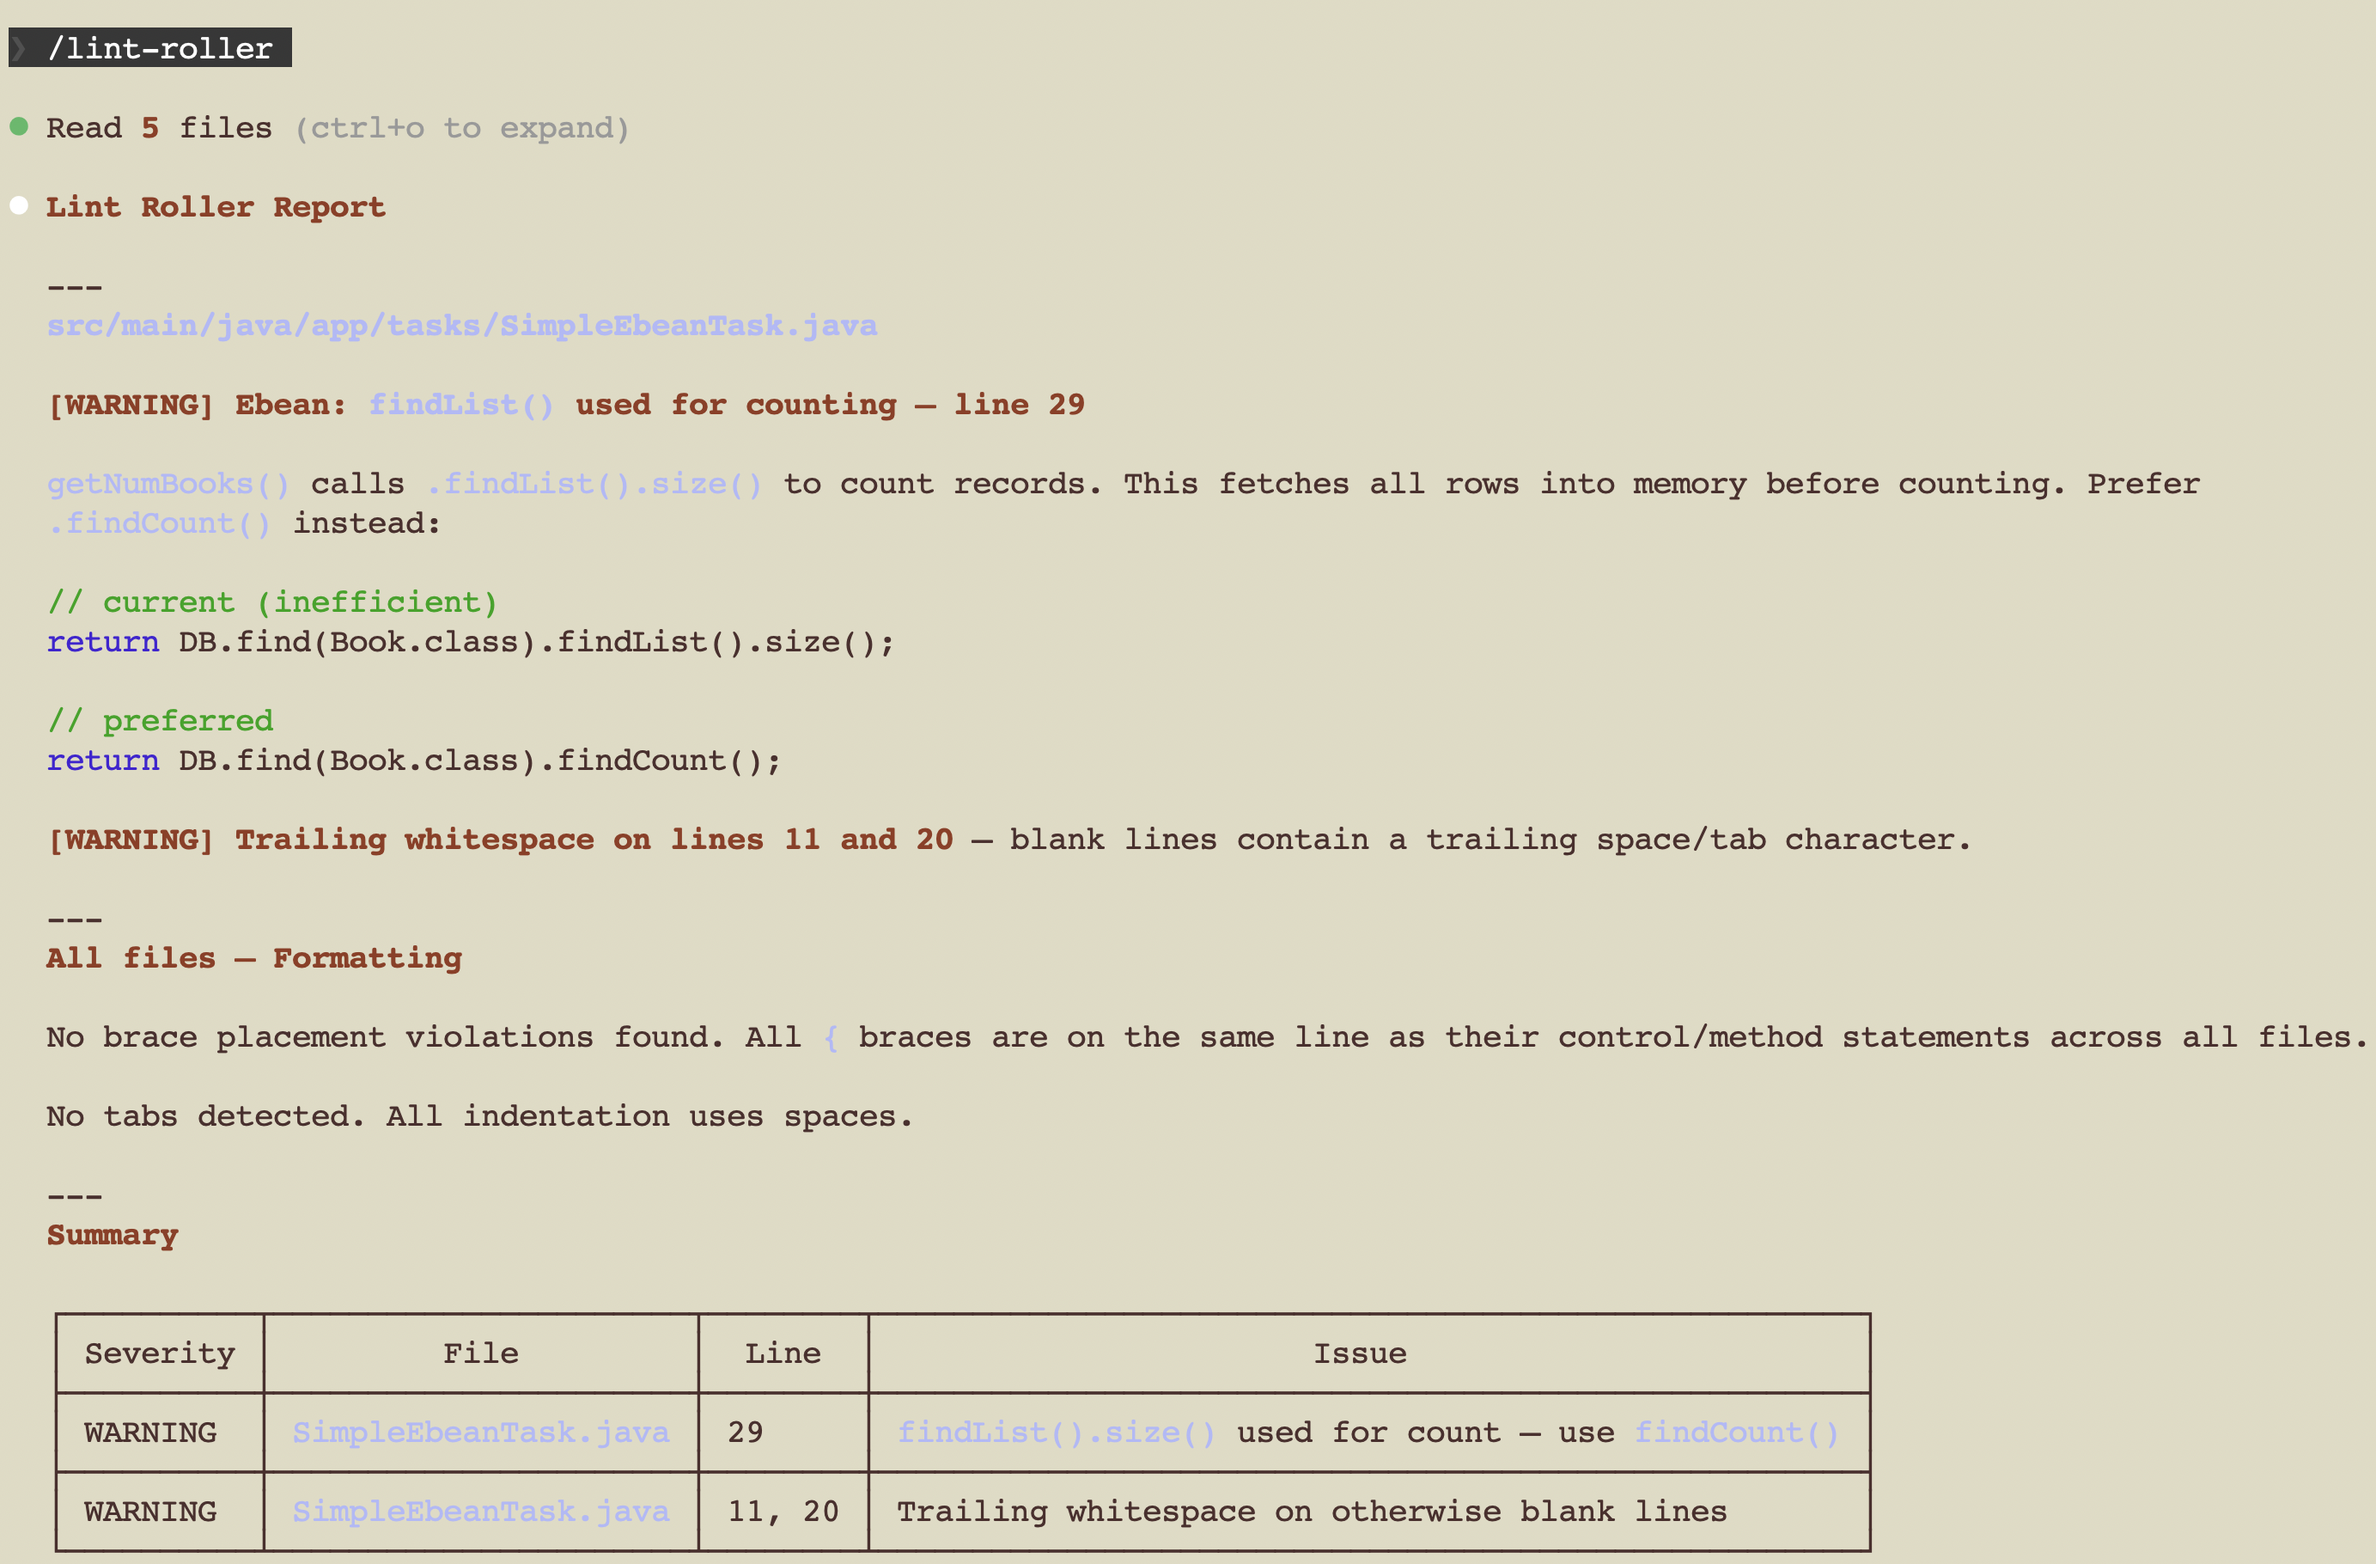
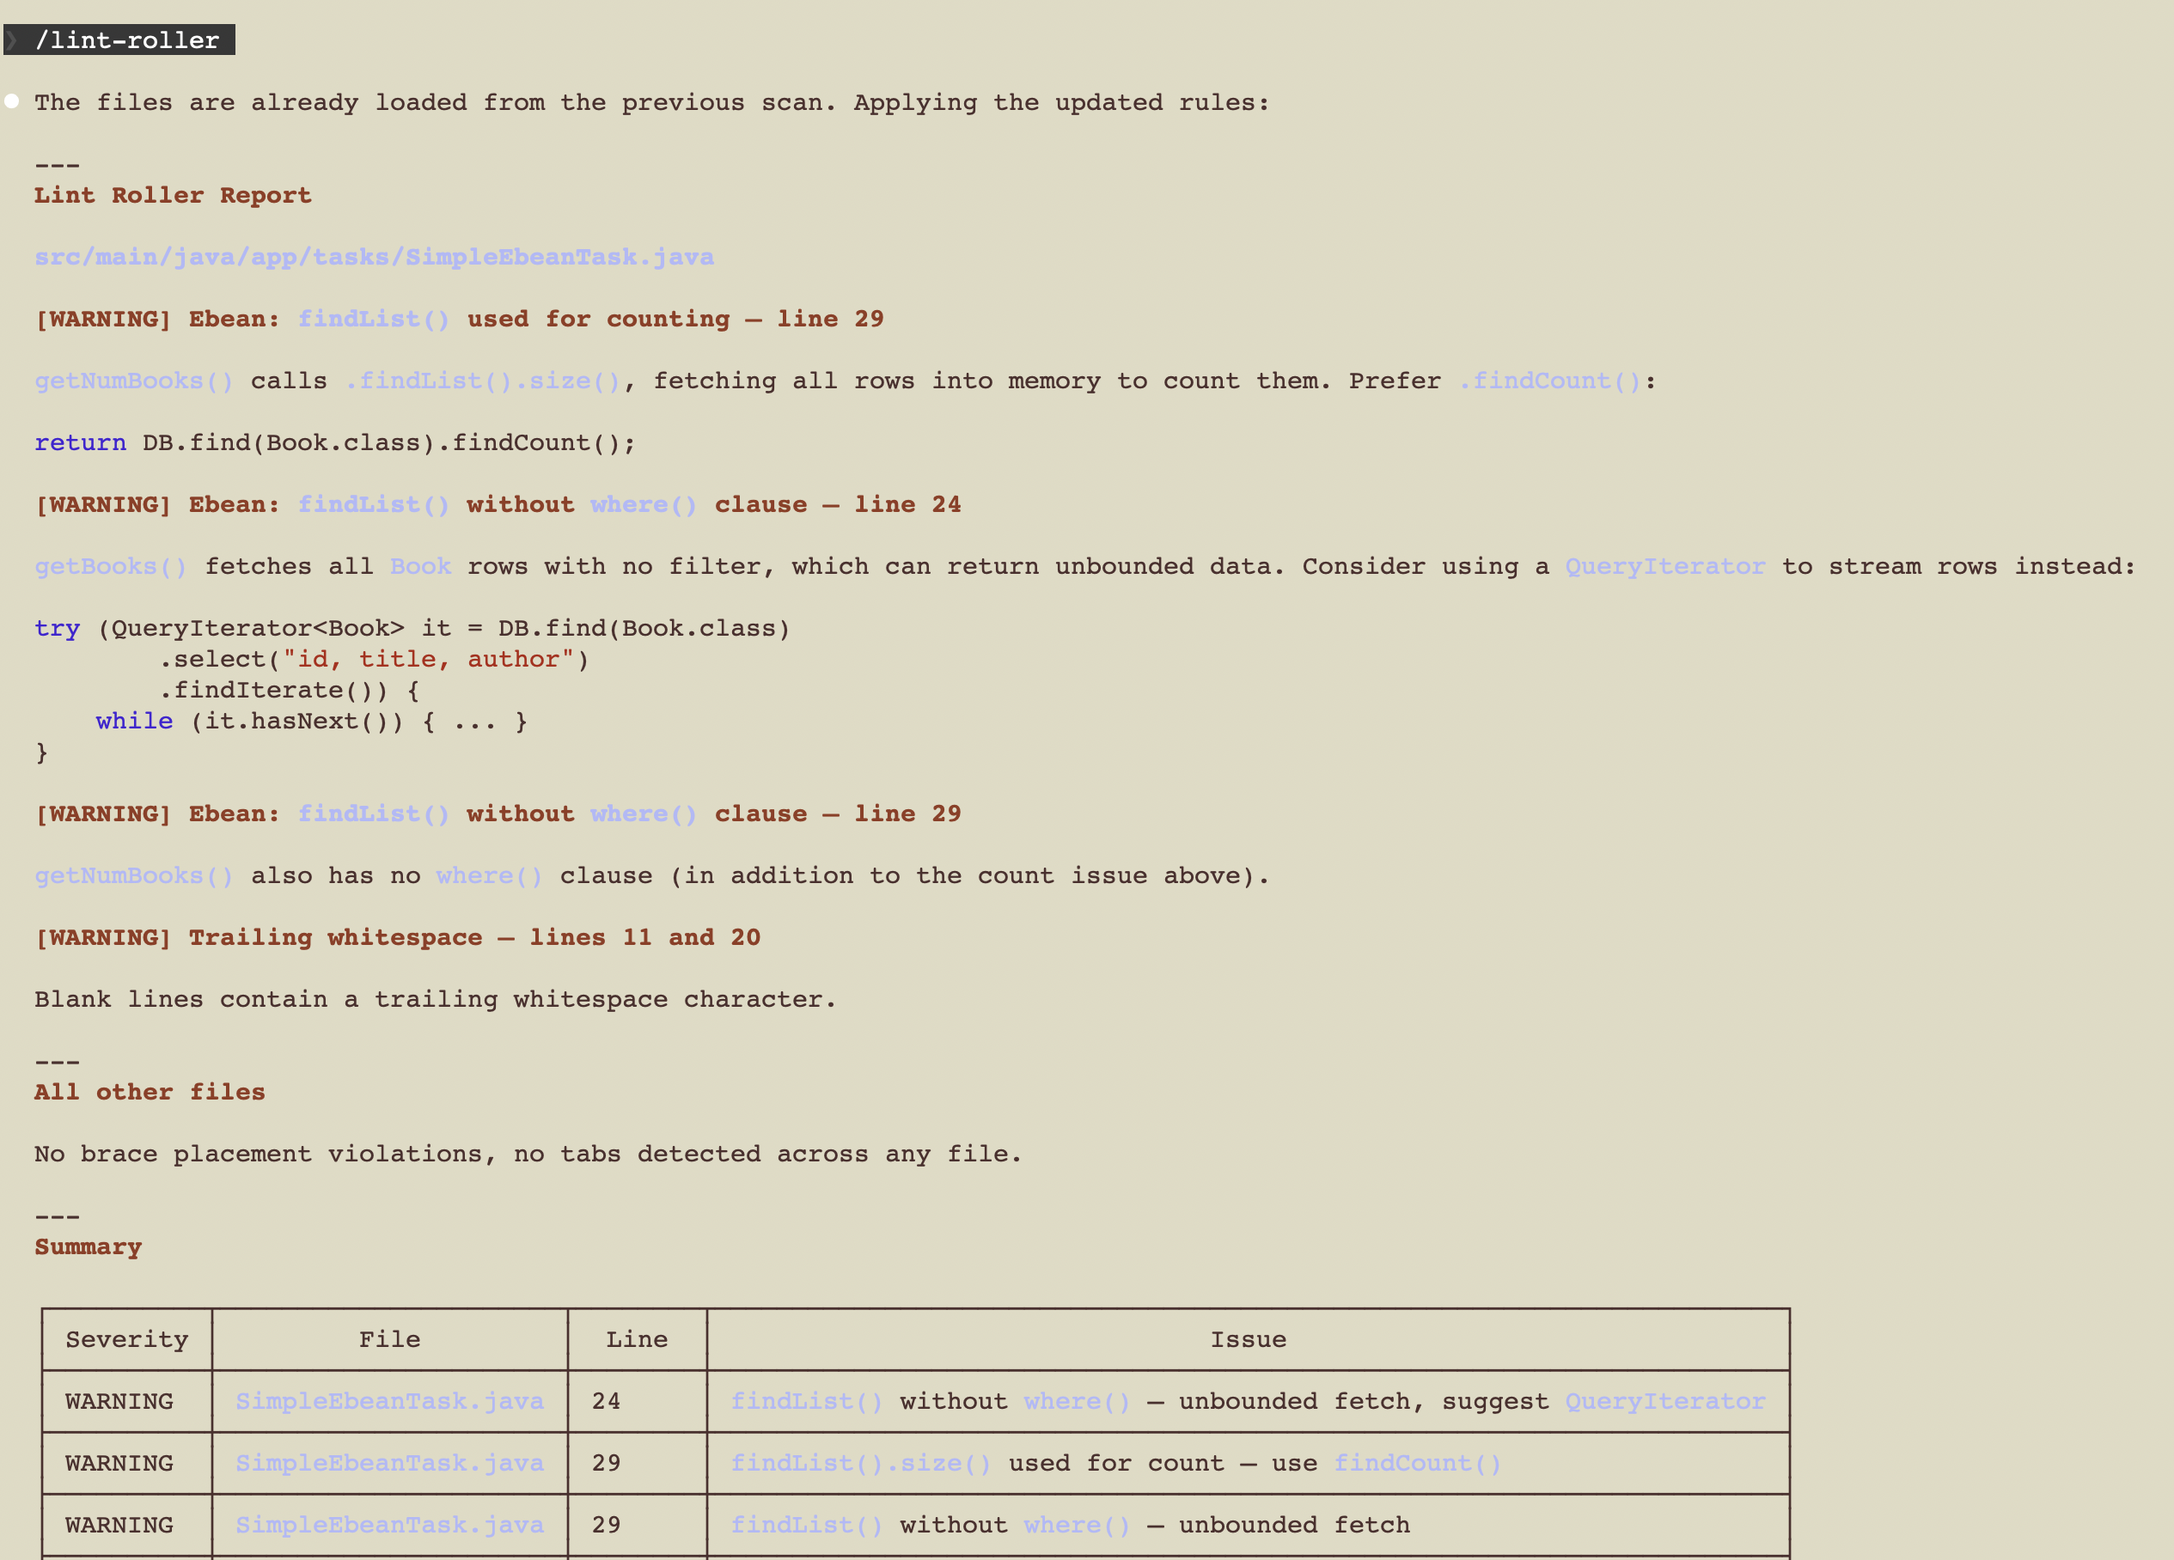
query iterator

diff --git a/.claude/skills/lint-roller/SKILL.md b/.claude/skills/lint-roller/SKILL.md
@@ -5,9 +5,9 @@ description: enforcing coding preferences and best practices
 
 ### General Formatting
 
-- if anything is violated, enforce by reporting as an error in bold font
-- warn if tabs are discovered (instead of spaces)
-- enforce that braces are on the same line such as:
+- If anything is violated, enforce by reporting as an error in bold font.
+- Warn if tabs are discovered (instead of spaces).
+- Enforce that braces are on the same line such as:
 ```
 while (!done) {
     if (a && b) {
@@ -18,5 +18,7 @@ while (!done) {
 
 ### EBean ORM in Java
 
-- warn for any methods that perform a count of objects, but use `findList()` to do it,
-as this is a performance concern
+- Warn for any methods that perform a count of objects, but use `findList()` to do it,
+as this is a performance concern.
+
+- Warn for any EBean queries that use `findList()` without a `where()` clause, as this can lead to fetching large amounts of data unintentionally. Suggest a `QueryIterator`.

diff --git a/README.md b/README.md
@@ -14,7 +14,7 @@
 
 * for normal use, in Terminal:
     * edit `./setvars.sh`
-    * `./gradlew clean run`
+    * `sbt run`
 * for skill illustration, in Terminal:
     * `claude`
     * `/init`
